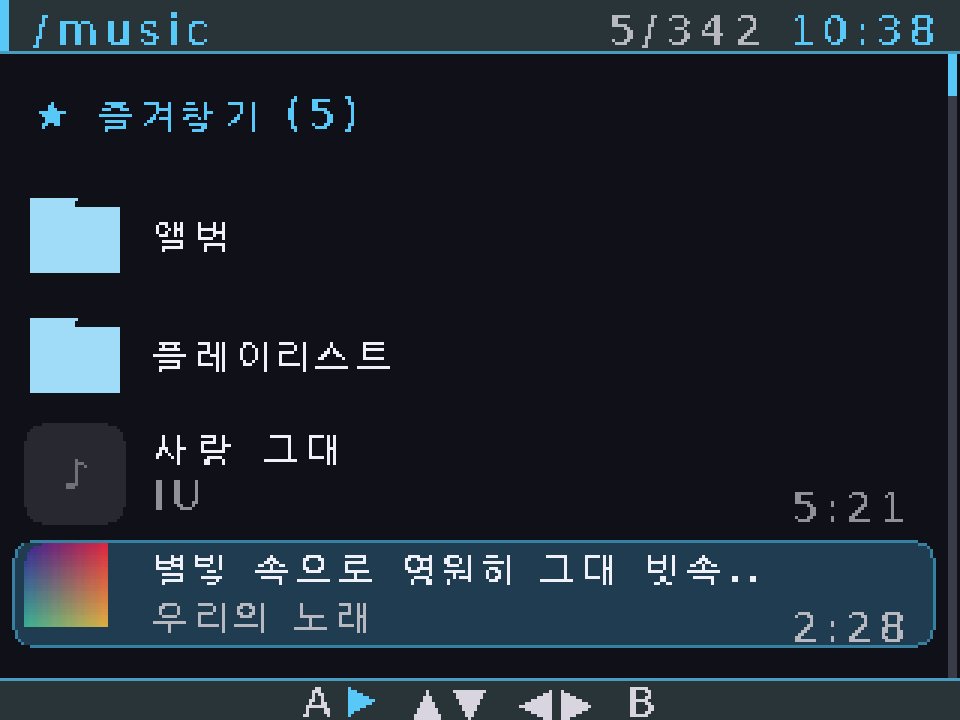
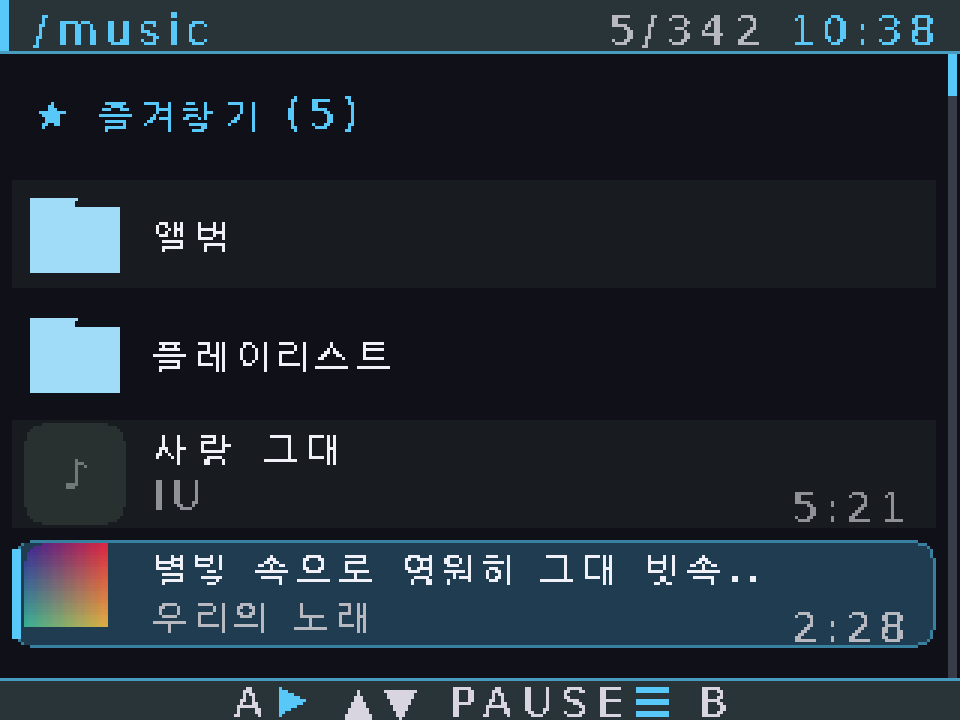
feat(music): browser PAUSE menu (brightness + live language) + prettier list
- PAUSE in the browser list now opens a shared options dialog: Brightness and a
  live Language switch (cycles + applies immediately via i18n_load_language) and
  Close. Reuses odroid_overlay_dialog like the now-playing menu; the list is the
  dialog's repaint backdrop. (The emulator odroid_overlay_game_menu is ROM/
  savestate-specific and unsafe here, so this is a music-app dialog.)
- list polish: selected row gets an accent 'you are here' bar, subtle zebra
  striping on alternate rows, and the footer now hints PAUSE = menu

Changed region(s): [[0.25, 0.9472, 0.75, 1.0], [0.0, 0.7639, 0.0312, 0.8861]]

diff --git a/Core/Src/porting/media/main_media.c b/Core/Src/porting/media/main_media.c
@@ -484,6 +484,23 @@ static bool bri_cb(odroid_dialog_choice_t *o, odroid_dialog_event_t ev, uint32_t
     return false;
 }
 
+// Live language switch (◀▶ cycles) — handy from inside the app.
+static char lang_v[28];
+static void set_lang_v(void) { snprintf(lang_v, sizeof(lang_v), "%s", i18n_lang_display_name(odroid_settings_lang_get())); }
+static bool lang_cb(odroid_dialog_choice_t *o, odroid_dialog_event_t ev, uint32_t r)
+{
+    (void)o; (void)r;
+    int8_t lang = odroid_settings_lang_get();
+    if (ev == ODROID_DIALOG_PREV)      lang = odroid_settings_get_prior_lang(lang);
+    else if (ev == ODROID_DIALOG_NEXT) lang = odroid_settings_get_next_lang(lang);
+    if (ev == ODROID_DIALOG_PREV || ev == ODROID_DIALOG_NEXT) {
+        odroid_settings_lang_set(lang);
+        curr_lang = i18n_load_language(lang);
+    }
+    set_lang_v();
+    return false;
+}
+
 // Feed the audio DMA from the decoded ring and advance the play position. Used
 // by the menu's repaint callback so music keeps playing (and the analyzer keeps
 // dancing) while the blocking dialog is open. One DMA half (~22ms at 48kHz) is
@@ -527,6 +544,24 @@ static int open_menu(player_state_t *ps)
         ODROID_DIALOG_CHOICE_LAST,
     };
     return odroid_overlay_dialog(TR(s_music, "Music"), choices, 0, player_repaint, 0);
+}
+
+// Shared options menu reachable from the browser list via PAUSE: brightness +
+// live language switch + close. (Track-specific items like favourite/repeat/
+// info/lyrics only make sense while a track is playing, so they're omitted.)
+static void browser_repaint(void) { draw_list(); }
+
+static void open_browser_menu(void)
+{
+    set_bri_v(); set_lang_v();
+    odroid_dialog_choice_t choices[] = {
+        { 13, TR(s_brightness, "Brightness"), bri_v,  1, bri_cb },
+        { 14, TR(s_LangUI,     "Language"),   lang_v, 1, lang_cb },
+        ODROID_DIALOG_CHOICE_SEPARATOR,
+        { MENU_CLOSE, TR(s_Close, "Close"), (char *)"", 1, NULL },
+        ODROID_DIALOG_CHOICE_LAST,
+    };
+    odroid_overlay_dialog(TR(s_music, "Music"), choices, 0, browser_repaint, 0);
 }
 
 // ---------------------------------------------------------------------------
@@ -780,6 +815,11 @@ void app_main_media(uint8_t load_state, uint8_t start_paused, int8_t save_slot)
             if (g_mode == MODE_FAV) { g_mode = MODE_FOLDER; strcpy(cur_path, g_root); scan_folder(); }
             else if (!go_parent()) odroid_system_switch_app(APPID_LAUNCHER);  // noreturn
             dirty = true;
+        }
+
+        if (PRESSED(ODROID_INPUT_VOLUME)) {          // PAUSE/SET → shared options menu
+            open_browser_menu();
+            odroid_input_read_gamepad(&joy); prev = joy; dirty = true; held_dir = 0; continue;
         }
 
         if (PRESSED(ODROID_INPUT_POWER)) {           // blank the screen until any key

diff --git a/Core/Src/porting/media/media_ui.c b/Core/Src/porting/media/media_ui.c
@@ -812,7 +812,8 @@ void ui_list_draw(const list_view_t *v, void (*item_at)(int i, list_item_t *out)
         int y = H + r * RH;
         bool sel = (idx == v->cursor);
         uint16_t pill_bg = ui_mix(bg, accent, 4);
-        uint16_t rbg = sel ? pill_bg : bg;
+        uint16_t zebra   = ui_mix(bg, fg, 1);                        // faint alternating row tint
+        uint16_t rbg = sel ? pill_bg : ((r & 1) ? zebra : bg);
         uint16_t txt = fg;
         uint16_t sub = sel ? ui_mix(fg, bg, 4) : ui_mix(fg, bg, 7);   // clearer artist/duration
 
@@ -825,6 +826,9 @@ void ui_list_draw(const list_view_t *v, void (*item_at)(int i, list_item_t *out)
             ui_fill(pill_x, pill_y, pill_w, pill_h, pill_bg);
             round_corners(pill_x, pill_y, pill_w, pill_h, pill_r, bg);
             ui_rrect(pill_x, pill_y, pill_w, pill_h, pill_r, ui_mix(bg, accent, 10)); // selection border
+            ui_fill(pill_x, pill_y + 3, 3, pill_h - 6, accent);                       // accent "you are here" bar
+        } else if (r & 1) {
+            ui_fill(pill_x, pill_y, pill_w, pill_h, zebra);                           // zebra band
         }
         int tx = 8, ty = y + (RH - TH) / 2;
 
@@ -879,7 +883,7 @@ void ui_list_draw(const list_view_t *v, void (*item_at)(int i, list_item_t *out)
     ui_fill(0, SCR_H - LIST_FOOTER_H, SCR_W, 1, ui_mix(accent, bg, 4));
     static const chip_t fh[] = {
         { "A", ICN_PLAY }, { "\xE2\x96\xB2\xE2\x96\xBC", ICN_NONE },     // ▲▼
-        { "\xE2\x97\x80\xE2\x96\xB6", ICN_NONE }, { "B", ICN_NONE },     // ◀▶
+        { "PAUSE", ICN_MENU }, { "B", ICN_NONE },                       // PAUSE = menu
     };
     chip_row(SCR_H - LIST_FOOTER_H + 2, fh, 4, ui_mix(fg, bg, 2), accent, 0);
 }